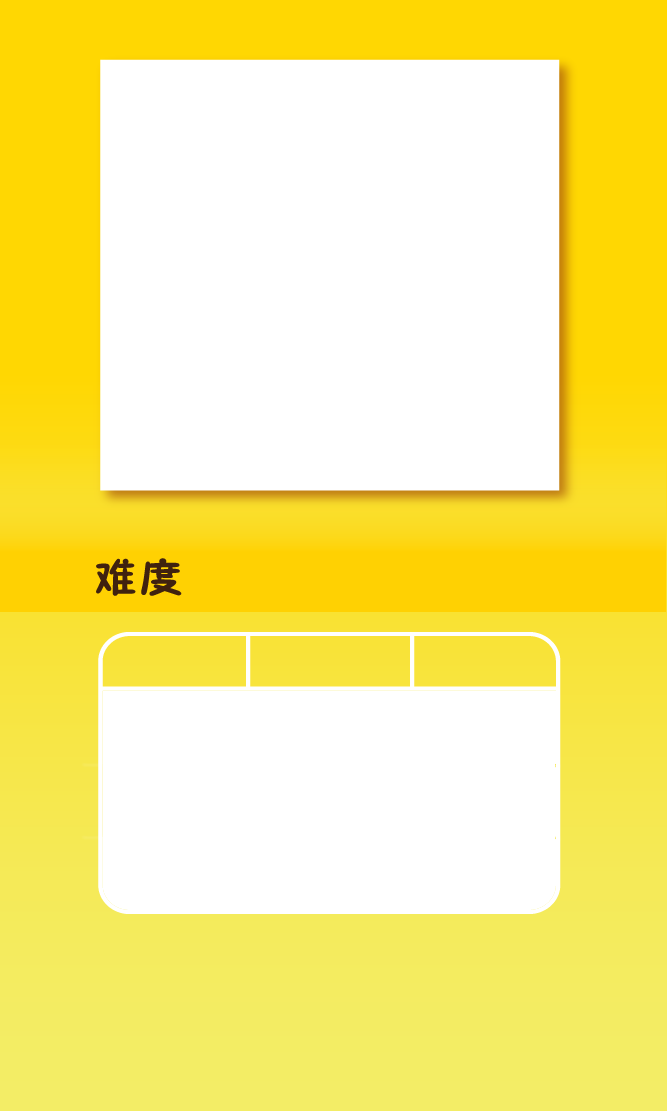
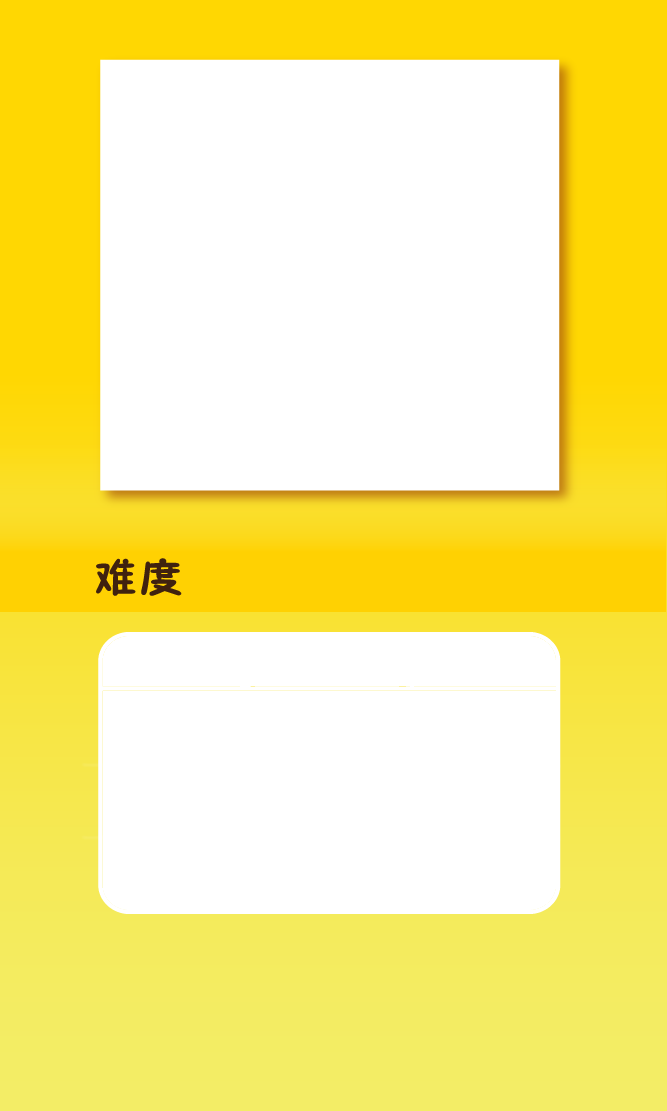
修改歌曲选择界面；整理资源

Changed region(s): [[0.1499, 0.5509, 0.8396, 0.6427]]

diff --git a/Classes/MainScence/SongSelectionScene.cpp b/Classes/MainScence/SongSelectionScene.cpp
@@ -21,7 +21,12 @@ bool SongSelectionScene::init() {
 	auto backButton = MenuItemImage::create("songselectscence/button_back_n.png", "songselectscence/button_back_s.png",
 		[this](Ref *){Director::getInstance()->popScene();});
 	auto startButton = MenuItemImage::create("songselectscence/button_start_n.png", "songselectscence/button_start_s.png",
-		[this](Ref *){Director::getInstance()->popScene();});
+		[this](Ref *){
+			DataVo::inst()->load(songs[focus]);
+			DataVo::inst()->setMode(mode);
+			auto scene = GameWorld::create();
+			Director::getInstance()->pushScene(scene);
+		});
 	backButton->setPosition(ccp(161, 122));
 	backButton->setAnchorPoint(ccp(0.5, 0.5));
 	startButton->setPosition(ccp(404, 122));
@@ -54,22 +59,27 @@ bool SongSelectionScene::init() {
 	float w = 98;
 	float h = 198;
 
-    TableView *tableView= TableView::create(this, Size(464, 225));
+	focus = 0;
+	mode = 0;
+	namePic = musicPic = nullptr;
+	showSongInfo(0);
+
+	for (int i = 0; i < 3; i++) {
+		modes[i] = Sprite::create();
+		modes[i]->setAnchorPoint(ccp(0.5, 0.5));
+		modes[i]->setPosition(180+ i * 154, 447);
+		bg->addChild(modes[i], -1);
+	}
+	showModeInfo(0);
+
+    TableView *tableView= TableView::create(this, Size(464, 224));
 	tableView->setDirection(ScrollView::Direction::VERTICAL);
     tableView->setAnchorPoint(ccp(0, 0));
-    tableView->setPosition(98, 198);
+    tableView->setPosition(98, 196);
     tableView->setDelegate(this);
     tableView->setVerticalFillOrder(TableView::VerticalFillOrder::TOP_DOWN);
     bg->addChild(tableView, -1);
     tableView->reloadData();
-
-//	Sprite* tableBg = Sprite::create("songselectscence/song_table.png");
- //   tableBg->setPosition(ccp(w, h));
-//	tableBg->setAnchorPoint(ccp(0, 0));
-//	fg->addChild(tableBg);
-	focus = 0;
-	namePic = musicPic = nullptr;
-	showSongInfo(0);
 
 	return true;
 }
@@ -91,6 +101,20 @@ bool SongSelectionScene::onTouchBegan( Touch * touch, Event *event) {
 }
 
 void SongSelectionScene::onTouchEnded( Touch * touch, Event *event) {
+	for (int i = 0; i < 2; i++) {
+		if (modes[i]->boundingBox().containsPoint(touch->getLocation())) 
+			showModeInfo(i);
+	}
+}
+
+void SongSelectionScene::showModeInfo(int idx) {
+	auto cache = SpriteFrameCache::getInstance();
+	cache->addSpriteFramesWithFile("songselectscence/button_mode.plist");
+	mode = idx;
+	for (int i = 0; i < 3; i++) {
+		std::string url = "button_mode" + std::to_string(i+1) + "_" + (i == mode ? "s" : "n") + ".png";
+		modes[i]->setSpriteFrame(cache->getSpriteFrameByName(url));
+	}
 }
 
 void SongSelectionScene::showSongInfo(int idx) {
@@ -119,6 +143,9 @@ void SongSelectionScene::showSongInfo(int idx) {
 		stars[i]->setTexture(aTexture);
 	for (int i = difficult[idx]; i < 5; i++)
 		stars[i]->setTexture(bTexture);
+
+	CocosDenshion::SimpleAudioEngine::getInstance()->
+		playBackgroundMusic((musicname + "/demo.mp3").c_str());
 }
 void SongSelectionScene::scrollViewDidScroll(ScrollView *view) { }
 void SongSelectionScene::scrollViewDidZoom(ScrollView *view) { }
@@ -136,14 +163,15 @@ void SongSelectionScene::tableCellTouched(TableView *table, TableViewCell *cell)
 	CCTexture2D *aTexture=CCTextureCache::sharedTextureCache()->addImage("songselectscence/table_list_bg_s.png");
 	CCSprite *pSprite=(CCSprite *)cell->getChildByTag(221);
 	pSprite->setTexture(aTexture);
-//	CCBlink *blink_ = CCBlink::create(1.0f, 7);
- //   cell->runAction(blink_);
+	CCBlink *blink_ = CCBlink::create(0.2f, 1);
+   cell->runAction(blink_);
 
 	showSongInfo(focus);
+
 }
 
 CCSize SongSelectionScene::cellSizeForTable(TableView *table) {
-    return CCSizeMake(464, 74);
+    return CCSizeMake(464, 76);
 }
 
 //生成cell

diff --git a/Classes/MainScence/Layer/UiLayer.cpp b/Classes/MainScence/Layer/UiLayer.cpp
@@ -215,16 +215,16 @@ void UiLayer::showGameoverBox(EventCustom *event) {
 	n = LocalRecord::inst()->getHighestRecord(name);
 	auto highestLabel = LabelBMFont::create(std::to_string(n), "fonts/number_2.fnt");
 	highestLabel->setAnchorPoint(ccp(1.0, 0.5));
-	highestLabel->setPosition(designWidth * 8.7 / 11.29, designHeight * (1 - 10.62 / 18.81));
+	highestLabel->setPosition(designWidth * 8.7 / 11.29, designHeight * (1 - 16.08 / 18.81));
 	highestLabel->setScale(1.3f);
 	bg->addChild(highestLabel, 10);
 
-	auto pic = Sprite::create(name + "pic.png");
+	auto pic = Sprite::create(name + "/pic.png");
 	pic->setPosition(designWidth * 4.2 / 11.29, designHeight * (1 - 5.05 / 18.81));
 	pic->setRotation(-10);
 	bg->addChild(pic);
 
-	auto songname = Sprite::create(name + "name.png");
+	auto songname = Sprite::create(name + "/name.png");
 	songname->setAnchorPoint(ccp(0, 0.5f));
 	songname->setPosition(designWidth * 1.72 / 11.29, designHeight * (1 - 10.96 / 18.81));
 	bg->addChild(songname);

diff --git a/Classes/MainScence/LoginScene.cpp b/Classes/MainScence/LoginScene.cpp
@@ -92,11 +92,11 @@ bool LoginScene::init() {
 	btnShop->setPosition(180, -285);
 	auto btnHelp = MenuItemImage::create("loginscence/button_help_n.png", "loginscence/button_help_s.png");
 	btnHelp->setPosition(170, -390);
-	auto btnAchieve = MenuItemImage::create("loginscence/button_achievement_n.png", 
-		"loginscence/button_achievement_s.png");
+	auto btnAchieve = MenuItemImage::create("buttons/button_achievement_n.png", 
+		"buttons/button_achievement_s.png");
 	btnAchieve->setPosition(-150, -440);
-	auto btnOptions = MenuItemImage::create("loginscence/button_options_n.png", 
-		"loginscence/button_options_s.png");
+	auto btnOptions = MenuItemImage::create("buttons/button_options_n.png", 
+		"buttons/button_options_s.png");
 	btnOptions->setPosition(0, -440);
 
 	mainMenu = Menu::create(btnStart, btnShop, btnHelp, btnAchieve, btnOptions, nullptr);

diff --git a/Classes/DataManager/DataVo.cpp b/Classes/DataManager/DataVo.cpp
@@ -78,7 +78,7 @@ void DataVo::load(std::string name) {
 	data.clear();
 	coins = LocalRecord::inst()->getCoins();
 	musicname = name;
-	std::string filepath = name + "data.csv";
+	std::string filepath = name + "/data.csv";
 
 	unsigned char* pBuffer = NULL;
 	ssize_t bufferSize = 0;
@@ -92,8 +92,13 @@ void DataVo::load(std::string name) {
 		}
 	musicLength = data.size();
 
-	musicFile = name + "music.mp3";
+	musicFile = name + "/music.mp3";
 	CocosDenshion::SimpleAudioEngine::getInstance()->preloadBackgroundMusic(musicFile.c_str());
+}
+
+void DataVo::setMode(int _mode) {
+	mode = _mode;
+	skinPath = "mainscence/skins/+" + std::to_string(mode) + "/";
 }
 
 void DataVo::updateRecord() {

diff --git a/Classes/AppDelegate.cpp b/Classes/AppDelegate.cpp
@@ -42,8 +42,8 @@ bool AppDelegate::applicationDidFinishLaunching() {
 	cache->addSpriteFramesWithFile("rolemove/rolemove.plist");
 	cache->addSpriteFramesWithFile("mainscence/energy.plist");
 //    auto scene = GameWorld::create();
-//    auto scene = LoginScene::create();
-    auto scene = SongSelectionScene::create();
+    auto scene = LoginScene::create();
+//    auto scene = SongSelectionScene::create();
 
     // run
     director->runWithScene(scene);

diff --git a/Classes/MainScence/SongSelectionScene.h b/Classes/MainScence/SongSelectionScene.h
@@ -20,6 +20,7 @@ public:
 	CREATE_FUNC(SongSelectionScene);
 
 	void showSongInfo(int);
+	void showModeInfo(int);
 
 	virtual void onEnter();
 	virtual void onExit();
@@ -50,10 +51,11 @@ private:
 	std::vector<std::string> songs;
 	std::vector<int> difficult;
 	Point beginPoint;
-	int focus;
+	int focus, mode;
 	Sprite* musicPic;
 	Sprite* namePic;
 	Sprite* stars[5];
+	Sprite* modes[3];
 };
 
 #endif

diff --git a/Classes/DataManager/DataVo.h b/Classes/DataManager/DataVo.h
@@ -39,7 +39,9 @@ public:
 
 	void load(std::string);
 	void updateRecord();
-	std::string musicname, musicFile;
+	void setMode(int);
+	std::string musicname, musicFile, skinPath;
+	int mode;
 	int musicLength;
 	std::vector<std::vector<int> > data;
 
